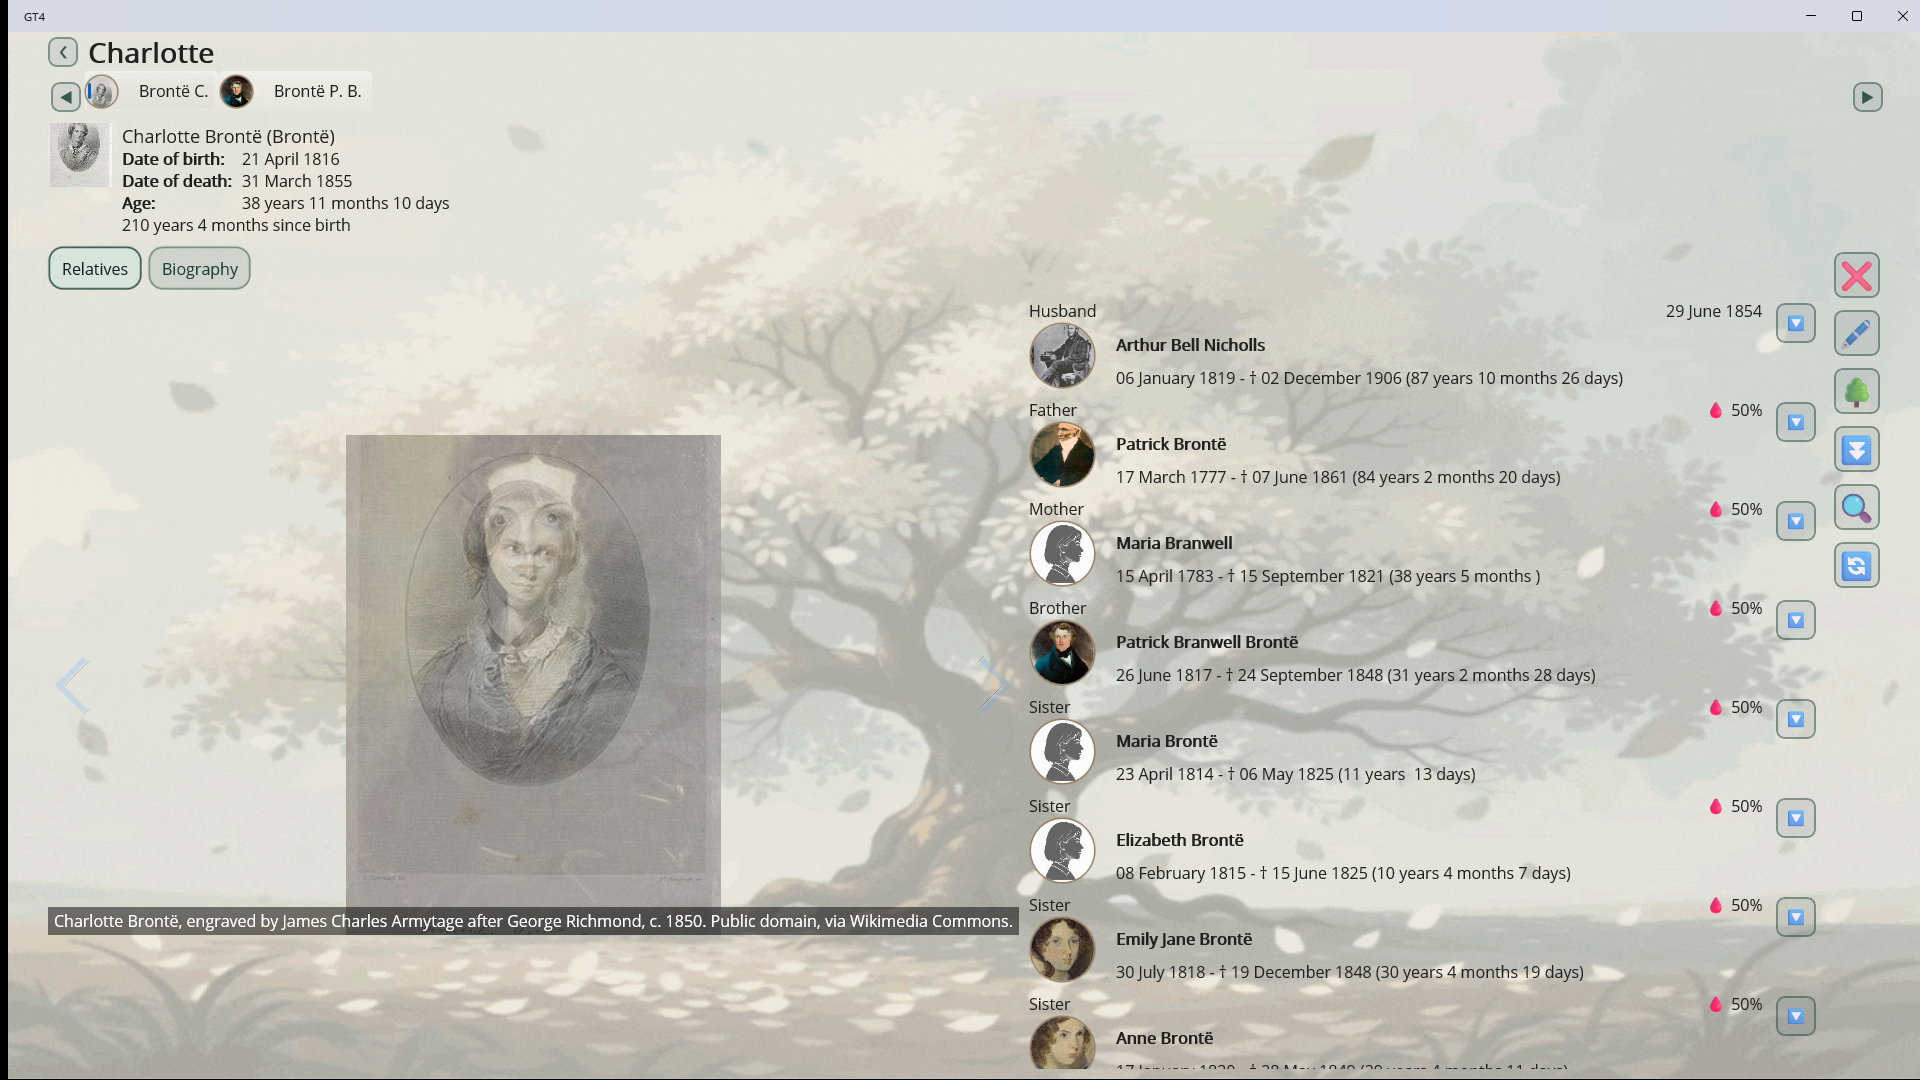
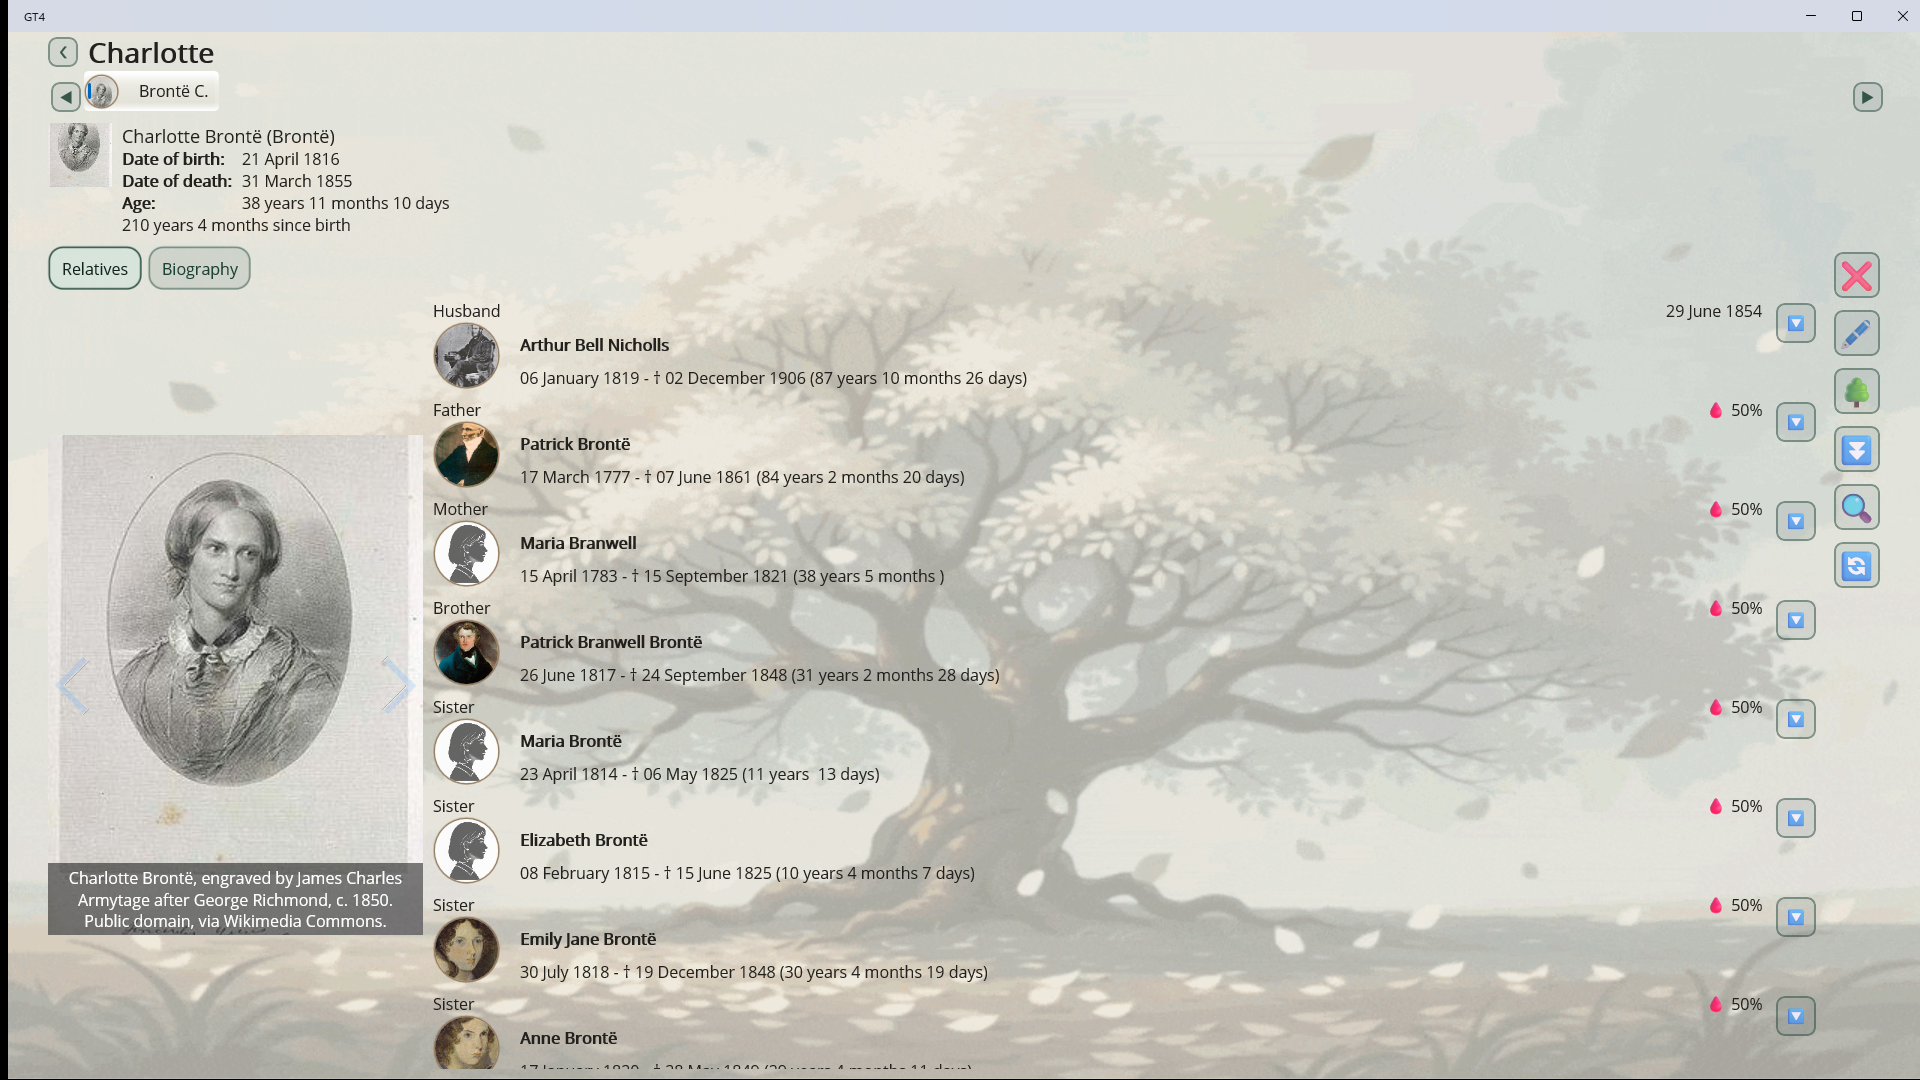
(*) Re-shoot the three shots v4.0.656.0 invalidated
04-person showed the caption stretching the photo pane, which #362 capped; the
two home screens printed 4.0.652.0, a version no package carries any more. All
three now come from the submitted tag, built from release/rc-sep-04 so the count
behind the version is the released one and not this branch's.

Each home shot differs from the one it replaces by 73 pixels -- the single glyph
in the version string, nothing else. That check is now in the recipe, along with
the two ways a capture goes wrong without looking wrong: an inactive title bar
when the app is not the foreground window, and a focus ring on whatever holds
initial keyboard focus until a pointer click retires it.

The remaining ten stay at 652. The only code between the tags is the caption cap,
and it reaches one pane none of them shows.

Changed region(s): [[0.0, 0.275, 0.8438, 1.0], [0.0938, 0.0611, 0.1875, 0.1222], [0.0625, 0.7333, 0.0938, 0.7639]]

diff --git a/doc/store/screenshots/README.md b/doc/store/screenshots/README.md
@@ -10,24 +10,22 @@ Release, not Debug, matters: `PersonInfoView.CommonName` appends `" (Id: N)"` to
 every displayed name under `#if DEBUG`, which would put a stray id after each
 name in the shots.
 
-## Three of these still have to be re-shot
+## Which build each shot came from
 
-All thirteen come from `v4.0.652.0` (commit `24aa0264`). The package being
-submitted is `v4.0.656.0` (commit `6d588c18`), and three shots do not survive the
-gap:
+The package being submitted is `v4.0.656.0` (commit `6d588c18`). Three shots come
+from it; the other ten are from `v4.0.652.0` (commit `24aa0264`), and that is not
+an oversight:
 
-- **`01-home.png` and `12-home-dark.png`.** The home screen prints the version,
-  so a shot from any other build contradicts the package it ships with.
-- **`04-person.png`.** It shows the caption stretching the photo pane to the
-  width of its text, which #362 fixed; `656` is the first build without it.
-
-The other ten are good as they are. The only code between the two tags is that
-caption cap, and it reaches one pane: the photo on the person page's Relatives
-tab. None of the ten can show it — the demo tree gives the family page no photos,
-the biography tab is a different tab, and the gallery never uses the component.
-
-Re-shoot all three in one pass on an **unlocked** session; `capture/README.md`
-says why that is not optional even for the two that need no clicking.
+- **`01-home.png` and `12-home-dark.png` — `656`.** The home screen prints the
+  version, so a shot from any other build contradicts the package it ships with.
+  Against their `652` predecessors these differ by 73 pixels each, all of them the
+  one glyph that changed.
+- **`04-person.png` — `656`.** At `652` the caption stretched the photo pane to
+  the width of its text; #362 capped it against the picture.
+- **The other ten — `652`.** The only code between the tags is that cap, and it
+  reaches one pane: the photo on the person page's Relatives tab. None of the ten
+  can show it — the demo tree gives the family page no photos, the biography tab
+  is a different tab, and the gallery never uses the component.
 
 ## Suggested Partner Center order and captions
 
@@ -75,10 +73,11 @@ the demo tree's longest blood relationship.
   attribution line, because that is what the demo file's `TITL` tags carry. It
   reads more like a credits list than a gallery. Consider dropping it, or
   re-shooting the gallery against a tree with ordinary captions.
-- **`04-person.png` carries two breadcrumbs**, Charlotte and Patrick Branwell,
-  because the shot was taken after visiting both. One would be tidier. Harmless,
-  and arguably shows the navigation history, but worth knowing it was not
-  deliberate.
+- **`04-person.png` catches one of two portraits.** The photo pane cycles, holding
+  each for about a second and a half; the shot is on the Armytage engraving, and
+  waiting one beat longer gives Branwell's colour painting instead. Either is
+  honest — capture during a settled beat, not mid-crossfade, and check the caption
+  belongs to the picture under it.
 
 ## Reproducing the set
 

diff --git a/doc/store/capture/README.md b/doc/store/capture/README.md
@@ -53,13 +53,18 @@ just lands somewhere else.
   WinUI 3 takes pointer input through the input site and ignores the legacy
   message.
 - **A shot that needs no clicking is not safe from that either.** The app never
-  becomes active, so the title bar renders in its inactive grey and whatever holds
-  initial keyboard focus draws a focus ring — on the home screen, a black ring and
-  caret around the language picker. Both are invisible unless the shot is compared
-  against the rest of the set. **Diff every re-shot PNG against the one it
-  replaces and account for every changed region**, rather than checking the part
-  that was supposed to change: the home screen has no animation, so a clean
-  re-shoot differs only where the version string does.
+  becomes active, so its title bar renders in the inactive grey the rest of the
+  set does not have.
+- **Click somewhere inert before shooting a page you have not clicked on.**
+  Whatever holds initial keyboard focus draws a focus visual until a pointer
+  click retires it — on the home screen, a black ring and caret around the
+  language picker, which no other shot in the set has. Clicking the background at
+  (400, 620) clears it and lands on nothing.
+- **Diff every re-shot PNG against the one it replaces and account for every
+  changed region**, rather than checking only the part that was meant to change.
+  Both faults above sit outside the region you would think to inspect, and both
+  survived a crop check of the version line. The home screen has no animation, so
+  a clean re-shoot of it differs by 73 pixels: the single glyph in the version.
 - **A click that teleports onto a control is ignored** by the smaller targets —
   the side-menu buttons in particular. WinUI wants a hover first, so `click.ps1`
   moves near the target, pauses, moves onto it, pauses, then presses.

diff --git a/doc/store/release-and-submission.md b/doc/store/release-and-submission.md
@@ -196,14 +196,11 @@ both files together when behaviour changes.
 - **Issue #281** — a GEDCOM export followed by a re-import silently loses family
   photos and attachments (person media survives). The listing copy is worded to
   avoid promising otherwise; see the exclusion in `claim-sources.md`.
-- **Three screenshots still to re-shoot.** The set is from `v4.0.652.0`;
-  `04-person.png` shows the caption stretching the photo pane that #362 fixed,
-  and `01-home.png` and `12-home-dark.png` print a version the package no longer
-  carries. The other ten are unaffected by anything between the two tags.
-
-See [screenshots/README.md](screenshots/README.md) for why only those three, and
-[capture/README.md](capture/README.md) for the settings a re-shoot has to turn on
-to match the set.
+The screenshots are not among these. The three that `v4.0.656.0` invalidated —
+`04-person.png` for the caption fix, `01-home.png` and `12-home-dark.png` for the
+version they print — were re-shot at that tag, and
+[screenshots/README.md](screenshots/README.md) records which build each of the
+thirteen came from.
 
 The palette needs no inventory here any more. #358 and #360 cleared the
 last of the MAUI template colours, and what replaced them is pinned by the
